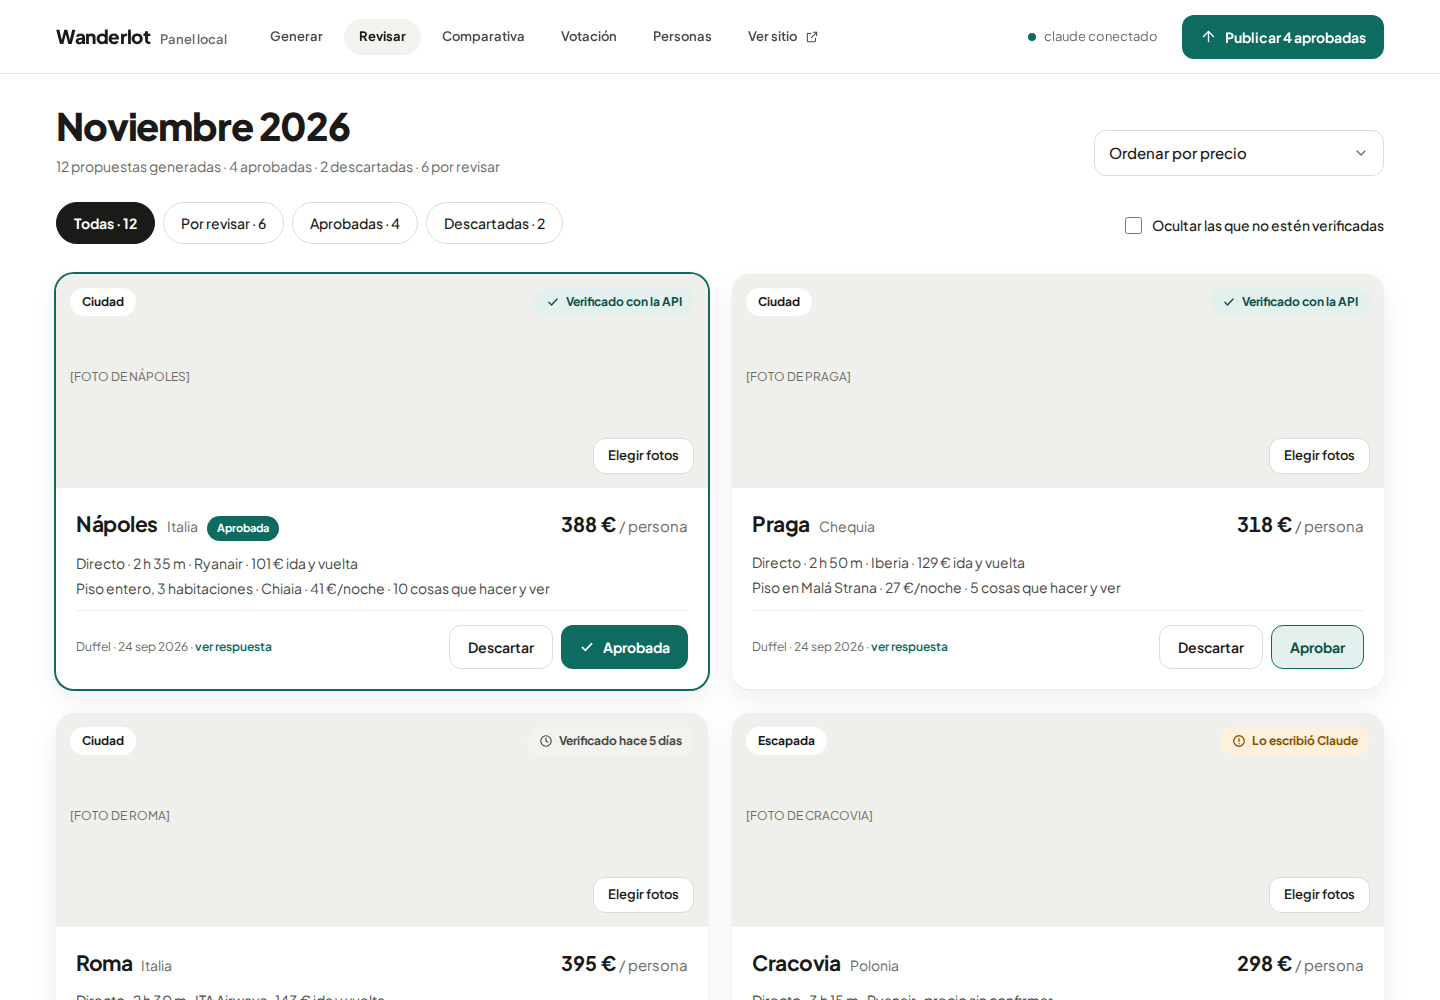
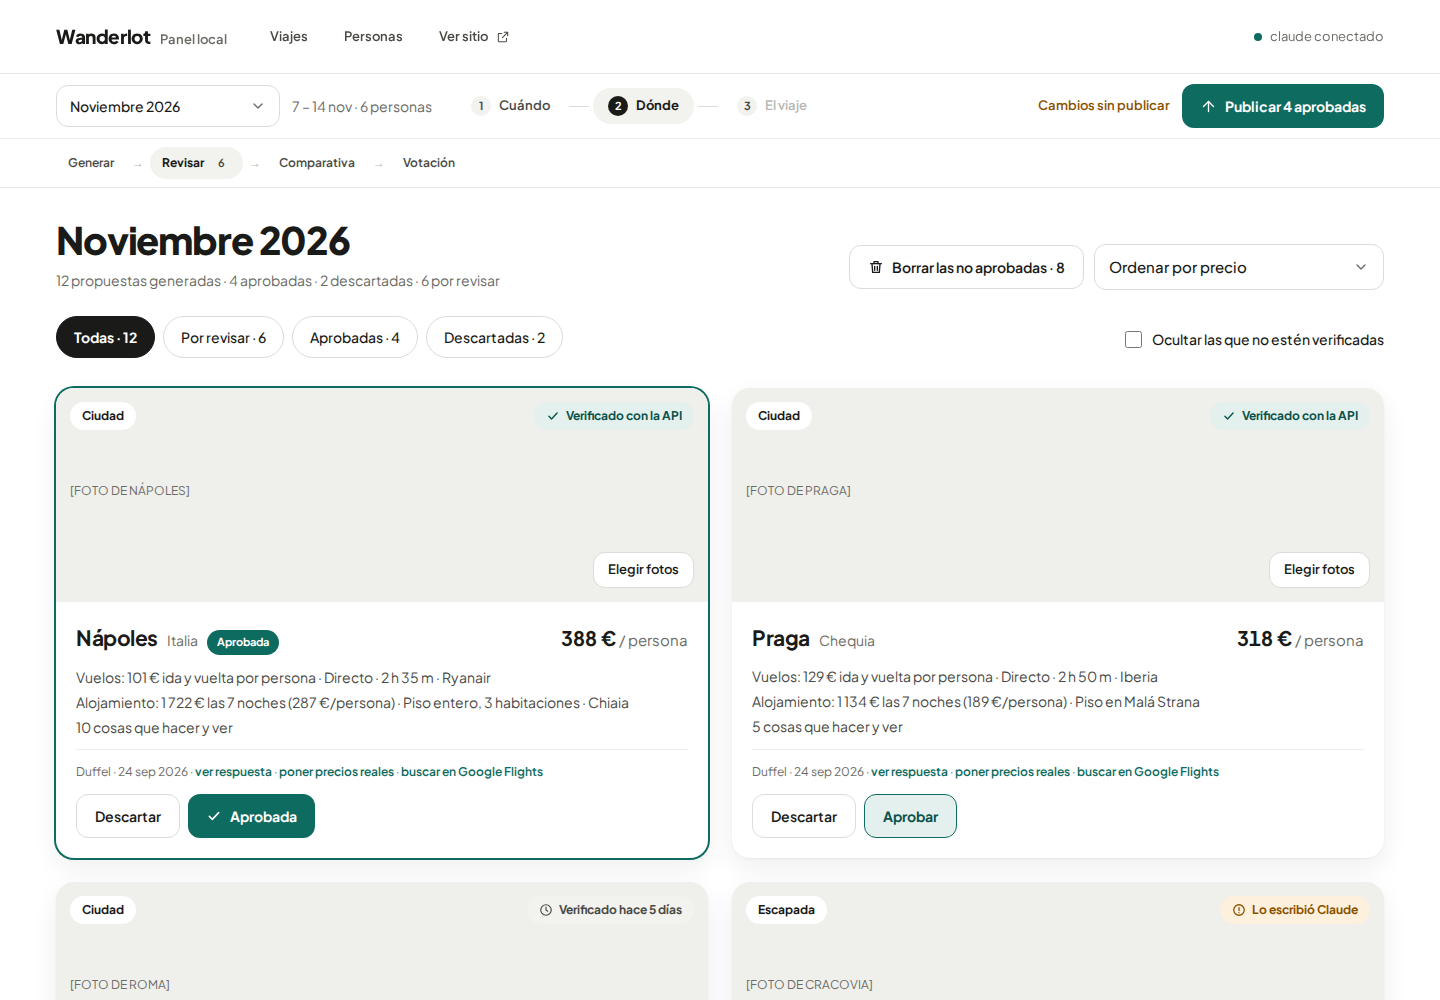
README: screenshots of the dates vote, the trip page, the new panel navigation and the panel on a phone

diff --git a/README.md b/README.md
@@ -23,9 +23,13 @@ The full design is in [`docs/SPEC.md`](docs/SPEC.md).
 |---|---|
 | ![A plan on the site: four destinations with prices, and the latest comments](docs/screenshots/site-plan.png) | ![Votación on a phone: the vote so far and your three picks](docs/screenshots/site-votacion-phone.png) |
 
-| The organiser's panel: reviewing proposals | Following the vote |
+| The trip page, once decided | Agreeing on dates |
 |---|---|
-| ![Revisar: proposals with trust labels, approve or discard](docs/screenshots/panel-revisar.png) | ![Votación in the panel: who has voted, remind, close early](docs/screenshots/panel-votacion.png) |
+| ![El viaje: flights and stay with checked prices, each person's share, the Tricount link, getting there and what to know](docs/screenshots/site-viaje.png) | ![Fechas on a phone: yes, if need be or no for each date option](docs/screenshots/site-fechas-phone.png) |
+
+| The organiser's panel: reviewing proposals | The panel on a phone, at /admin |
+|---|---|
+| ![Revisar: the trip's steps (Cuándo, Dónde, El viaje), proposals with trust labels, approve or discard](docs/screenshots/panel-revisar.png) | ![The panel at phone width: the trip bar and Revisar](docs/screenshots/panel-phone.png) |
 
 <sub>Screenshots use the demo data, so photos appear as labelled placeholders.</sub>
 
